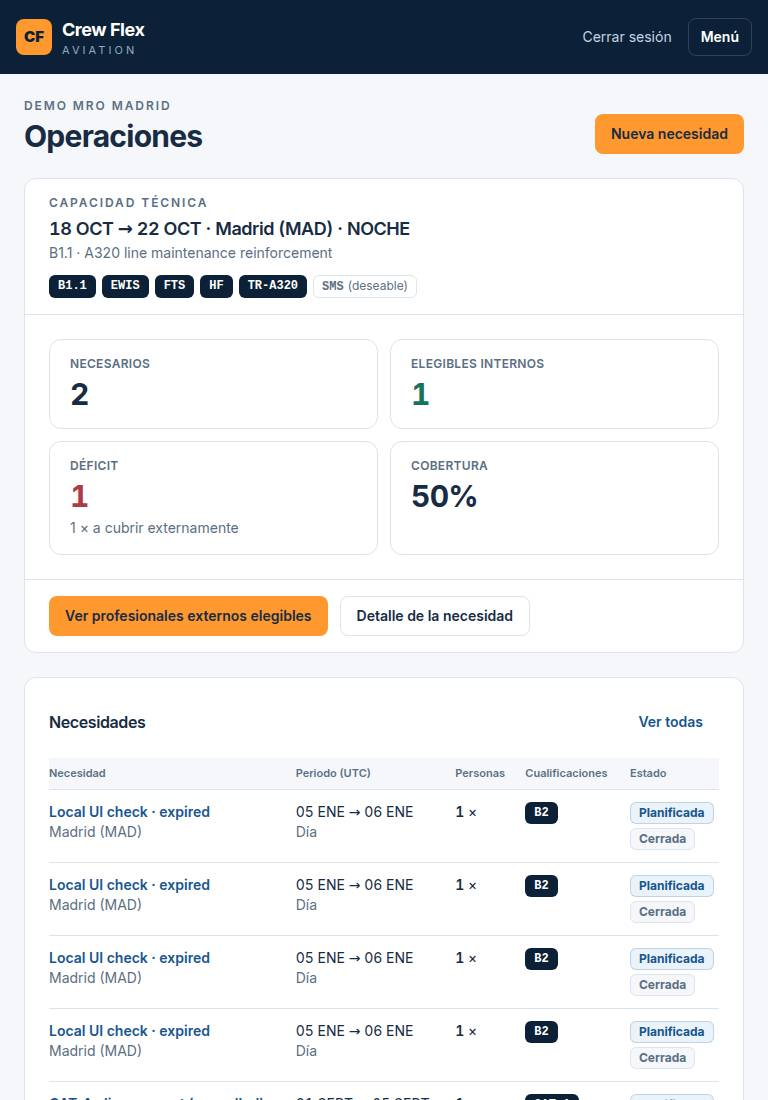
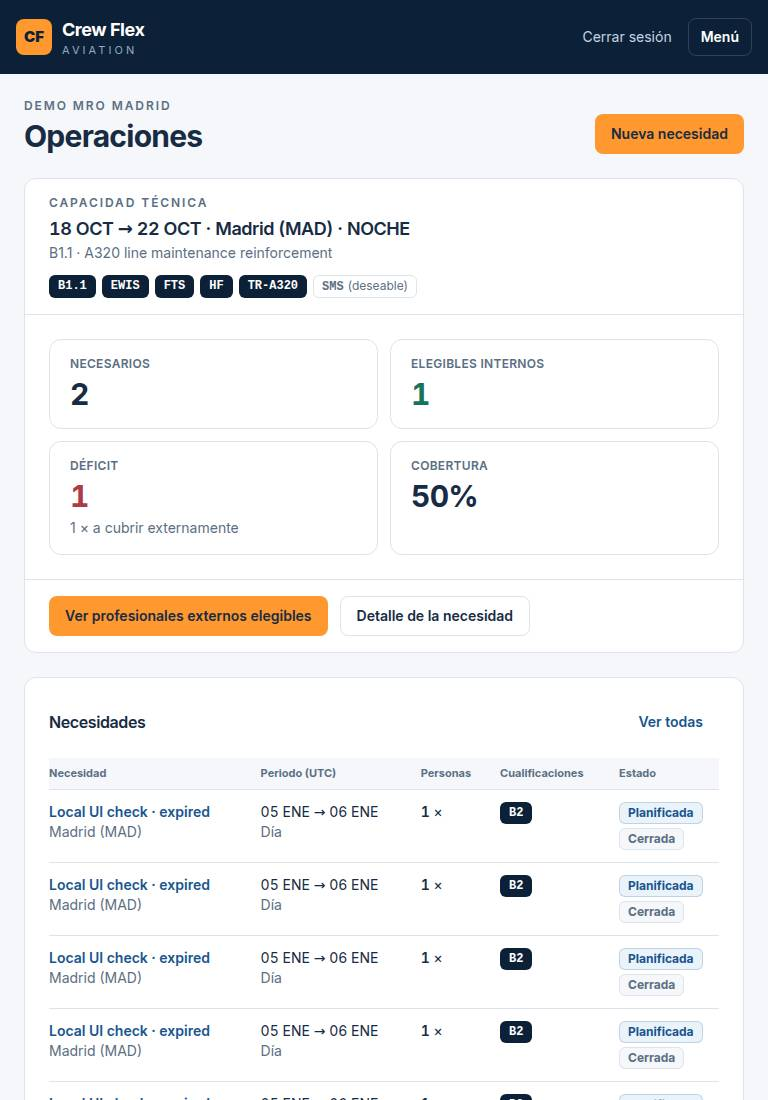
fix(review): batches 13–14 review fixes — wallet read error state, chip gap and scope, one table-header weight
- listOwnDocumentExpiries returns null on a query error; the overview shows an error line instead of
  the «nothing expires» state (never a false negative on the review list).
- Qualification expiry chip: held rows only (withdrawn rows no longer carry it), spaced from the date.
- Review-list links carry an aria-label with the item title (distinct accessible names).
- Table headers: one weight (semibold) on thead for the three tables.
- Domain test for the year rollover; smoke 2g is clock-free, 5f1/5f1b cover «Expired» / «Date passed».

diff --git a/src/app/app/professional/page.tsx b/src/app/app/professional/page.tsx
@@ -56,6 +56,7 @@ export default async function ProfessionalOverviewPage({
   // V1.8 Badges «Documentos y cursos próximos a revisar» (TD-44): declared expiries within 60 days,
   // expired included, over active qualifications and (when the wallet is on) own documents.
   const documents = walletEnabled ? await listOwnDocumentExpiries() : [];
+  const documentsFailed = documents === null;
   const toReview = [
     ...overview.qualifications
       .filter((q) => q.status === "active" && q.expires_at !== null)
@@ -65,7 +66,7 @@ export default async function ProfessionalOverviewPage({
         expiresAt: q.expires_at as string,
         href: "/app/professional/qualifications",
       })),
-    ...documents.map((d) => ({
+    ...(documents ?? []).map((d) => ({
       key: `d-${d.id}`,
       title: d.title,
       expiresAt: d.expiresAt,
@@ -155,6 +156,11 @@ export default async function ProfessionalOverviewPage({
           </Panel>
         )}
         <Panel title={t("overview.reviewTitle")}>
+          {documentsFailed && (
+            <p className="mb-3 text-sm text-danger" role="alert">
+              {t("overview.reviewError")}
+            </p>
+          )}
           {toReview.length === 0 ? (
             <p className="text-sm text-muted">
               {t("overview.reviewNone", { days: REVIEW_WINDOW_DAYS })}
@@ -178,7 +184,12 @@ export default async function ProfessionalOverviewPage({
                           ? t("overview.reviewExpired")
                           : t("overview.reviewSoon", { days: REVIEW_WINDOW_DAYS })}
                       </StatusChip>
-                      <ButtonLink href={item.href}>{t("overview.reviewOpen")}</ButtonLink>
+                      <ButtonLink
+                        href={item.href}
+                        aria-label={`${t("overview.reviewOpen")} · ${item.title}`}
+                      >
+                        {t("overview.reviewOpen")}
+                      </ButtonLink>
                     </span>
                   </li>
                 );

diff --git a/src/features/requirements/components/RequirementsList.tsx b/src/features/requirements/components/RequirementsList.tsx
@@ -17,21 +17,21 @@ export async function RequirementsList({ requirements }: { requirements: WorkReq
     <>
       <table className="hidden w-full text-left text-sm md:table">
         <caption className="sr-only">{t("caption")}</caption>
-        <thead className="border-b border-line bg-canvas text-[11px] text-muted">
+        <thead className="border-b border-line bg-canvas text-[11px] font-semibold text-muted">
           <tr>
-            <th scope="col" className="py-2 pr-4 font-semibold">
+            <th scope="col" className="py-2 pr-4">
               {t("columns.requirement")}
             </th>
-            <th scope="col" className="py-2 pr-4 font-semibold">
+            <th scope="col" className="py-2 pr-4">
               {t("columns.period")}
             </th>
-            <th scope="col" className="py-2 pr-4 font-semibold">
+            <th scope="col" className="py-2 pr-4">
               {t("columns.need")}
             </th>
-            <th scope="col" className="py-2 pr-4 font-semibold">
+            <th scope="col" className="py-2 pr-4">
               {t("columns.qualifications")}
             </th>
-            <th scope="col" className="py-2 font-semibold">
+            <th scope="col" className="py-2">
               {t("columns.status")}
             </th>
           </tr>

diff --git a/src/features/qualifications/components/QualificationsManager.tsx b/src/features/qualifications/components/QualificationsManager.tsx
@@ -300,13 +300,16 @@ export function QualificationsManager({
                         {q.expiresAt
                           ? t("validUntil", { date: formatDate(locale, q.expiresAt) })
                           : t("noExpiry")}
-                        {/* BR-12: same «expires soon» / «expired» chip as the wallet. */}
+                        {/* BR-12: same «expires soon» / «expired» chip as the wallet; held rows only. */}
                         {(() => {
                           const expiry = documentExpiryState(q.expiresAt, today);
-                          return expiry === "soon" || expiry === "expired" ? (
-                            <StatusChip tone={EXPIRY_TONE[expiry]}>
-                              {tDocuments(`expiry.${expiry}`)}
-                            </StatusChip>
+                          return q.status === "active" &&
+                            (expiry === "soon" || expiry === "expired") ? (
+                            <span className="ml-2">
+                              <StatusChip tone={EXPIRY_TONE[expiry]}>
+                                {tDocuments(`expiry.${expiry}`)}
+                              </StatusChip>
+                            </span>
                           ) : null;
                         })()}
                       </span>

diff --git a/src/app/app/admin/verifications/page.tsx b/src/app/app/admin/verifications/page.tsx
@@ -56,15 +56,15 @@ export default async function VerificationsPage() {
               <div className="overflow-x-auto">
                 <table className="w-full min-w-[32rem] text-left text-sm">
                   <caption className="sr-only">{t("historyTitle")}</caption>
-                  <thead className="bg-canvas text-[11px] text-muted">
+                  <thead className="bg-canvas text-[11px] font-semibold text-muted">
                     <tr>
-                      <th scope="col" className="py-2 pr-4 font-medium">
+                      <th scope="col" className="py-2 pr-4">
                         {t("when")}
                       </th>
-                      <th scope="col" className="py-2 pr-4 font-medium">
+                      <th scope="col" className="py-2 pr-4">
                         {t("decision")}
                       </th>
-                      <th scope="col" className="py-2 pr-4 font-medium">
+                      <th scope="col" className="py-2 pr-4">
                         {t("reasonGiven")}
                       </th>
                       <th scope="col" className="py-2 font-medium">

diff --git a/src/features/documents/api.ts b/src/features/documents/api.ts
@@ -37,14 +37,18 @@ export interface DocumentExpiry {
   expiresAt: string;
 }
 
-/** Own documents with a declared expiry, read under RLS (owner only) for the review list (TD-44). */
-export async function listOwnDocumentExpiries(): Promise<DocumentExpiry[]> {
+/**
+ * Own documents with a declared expiry, read under RLS (owner only) for the review list (TD-44).
+ * `null` when the query fails: the caller shows an error line, never the «nothing expires» state.
+ */
+export async function listOwnDocumentExpiries(): Promise<DocumentExpiry[] | null> {
   const supabase = await createServerSupabase();
-  const { data } = await supabase
+  const { data, error } = await supabase
     .from("professional_documents")
     .select("id, title, expires_at")
     .not("expires_at", "is", null)
     .order("expires_at")
     .overrideTypes<{ id: string; title: string; expires_at: string }[], { merge: false }>();
-  return (data ?? []).map((d) => ({ id: d.id, title: d.title, expiresAt: d.expires_at }));
+  if (error) return null;
+  return data.map((d) => ({ id: d.id, title: d.title, expiresAt: d.expires_at }));
 }

diff --git a/src/features/matching/components/MatchList.tsx b/src/features/matching/components/MatchList.tsx
@@ -179,13 +179,13 @@ export async function CompareTable({
       )}
       <div className="overflow-x-auto">
         <table className="w-full min-w-[480px] text-left text-sm">
-          <thead className="bg-canvas text-[11px] text-muted">
+          <thead className="bg-canvas text-[11px] font-semibold text-muted">
             <tr>
               <th scope="col" className="py-2 pr-3">
                 <span className="sr-only">{t("compareCriterion")}</span>
               </th>
               {items.map(({ candidate }) => (
-                <th key={candidate.id} scope="col" className="py-2 pr-3 font-semibold break-words">
+                <th key={candidate.id} scope="col" className="py-2 pr-3 break-words">
                   {candidate.displayName ?? tm("anonymous", { ref: candidate.id })}
                 </th>
               ))}

diff --git a/src/domain/documents.test.ts b/src/domain/documents.test.ts
@@ -116,4 +116,8 @@ describe("isDueForReview (V1.8 Badges «próximos a revisar», 60 days, expired 
   ] as const)("%s → %s", (expiresAt, due) => {
     expect(isDueForReview(expiresAt, today)).toBe(due);
   });
+  it("crosses the year boundary (2026-12-31 + 60 = 2027-03-01)", () => {
+    expect(isDueForReview("2027-03-01", "2026-12-31")).toBe(true);
+    expect(isDueForReview("2027-03-02", "2026-12-31")).toBe(false);
+  });
 });
